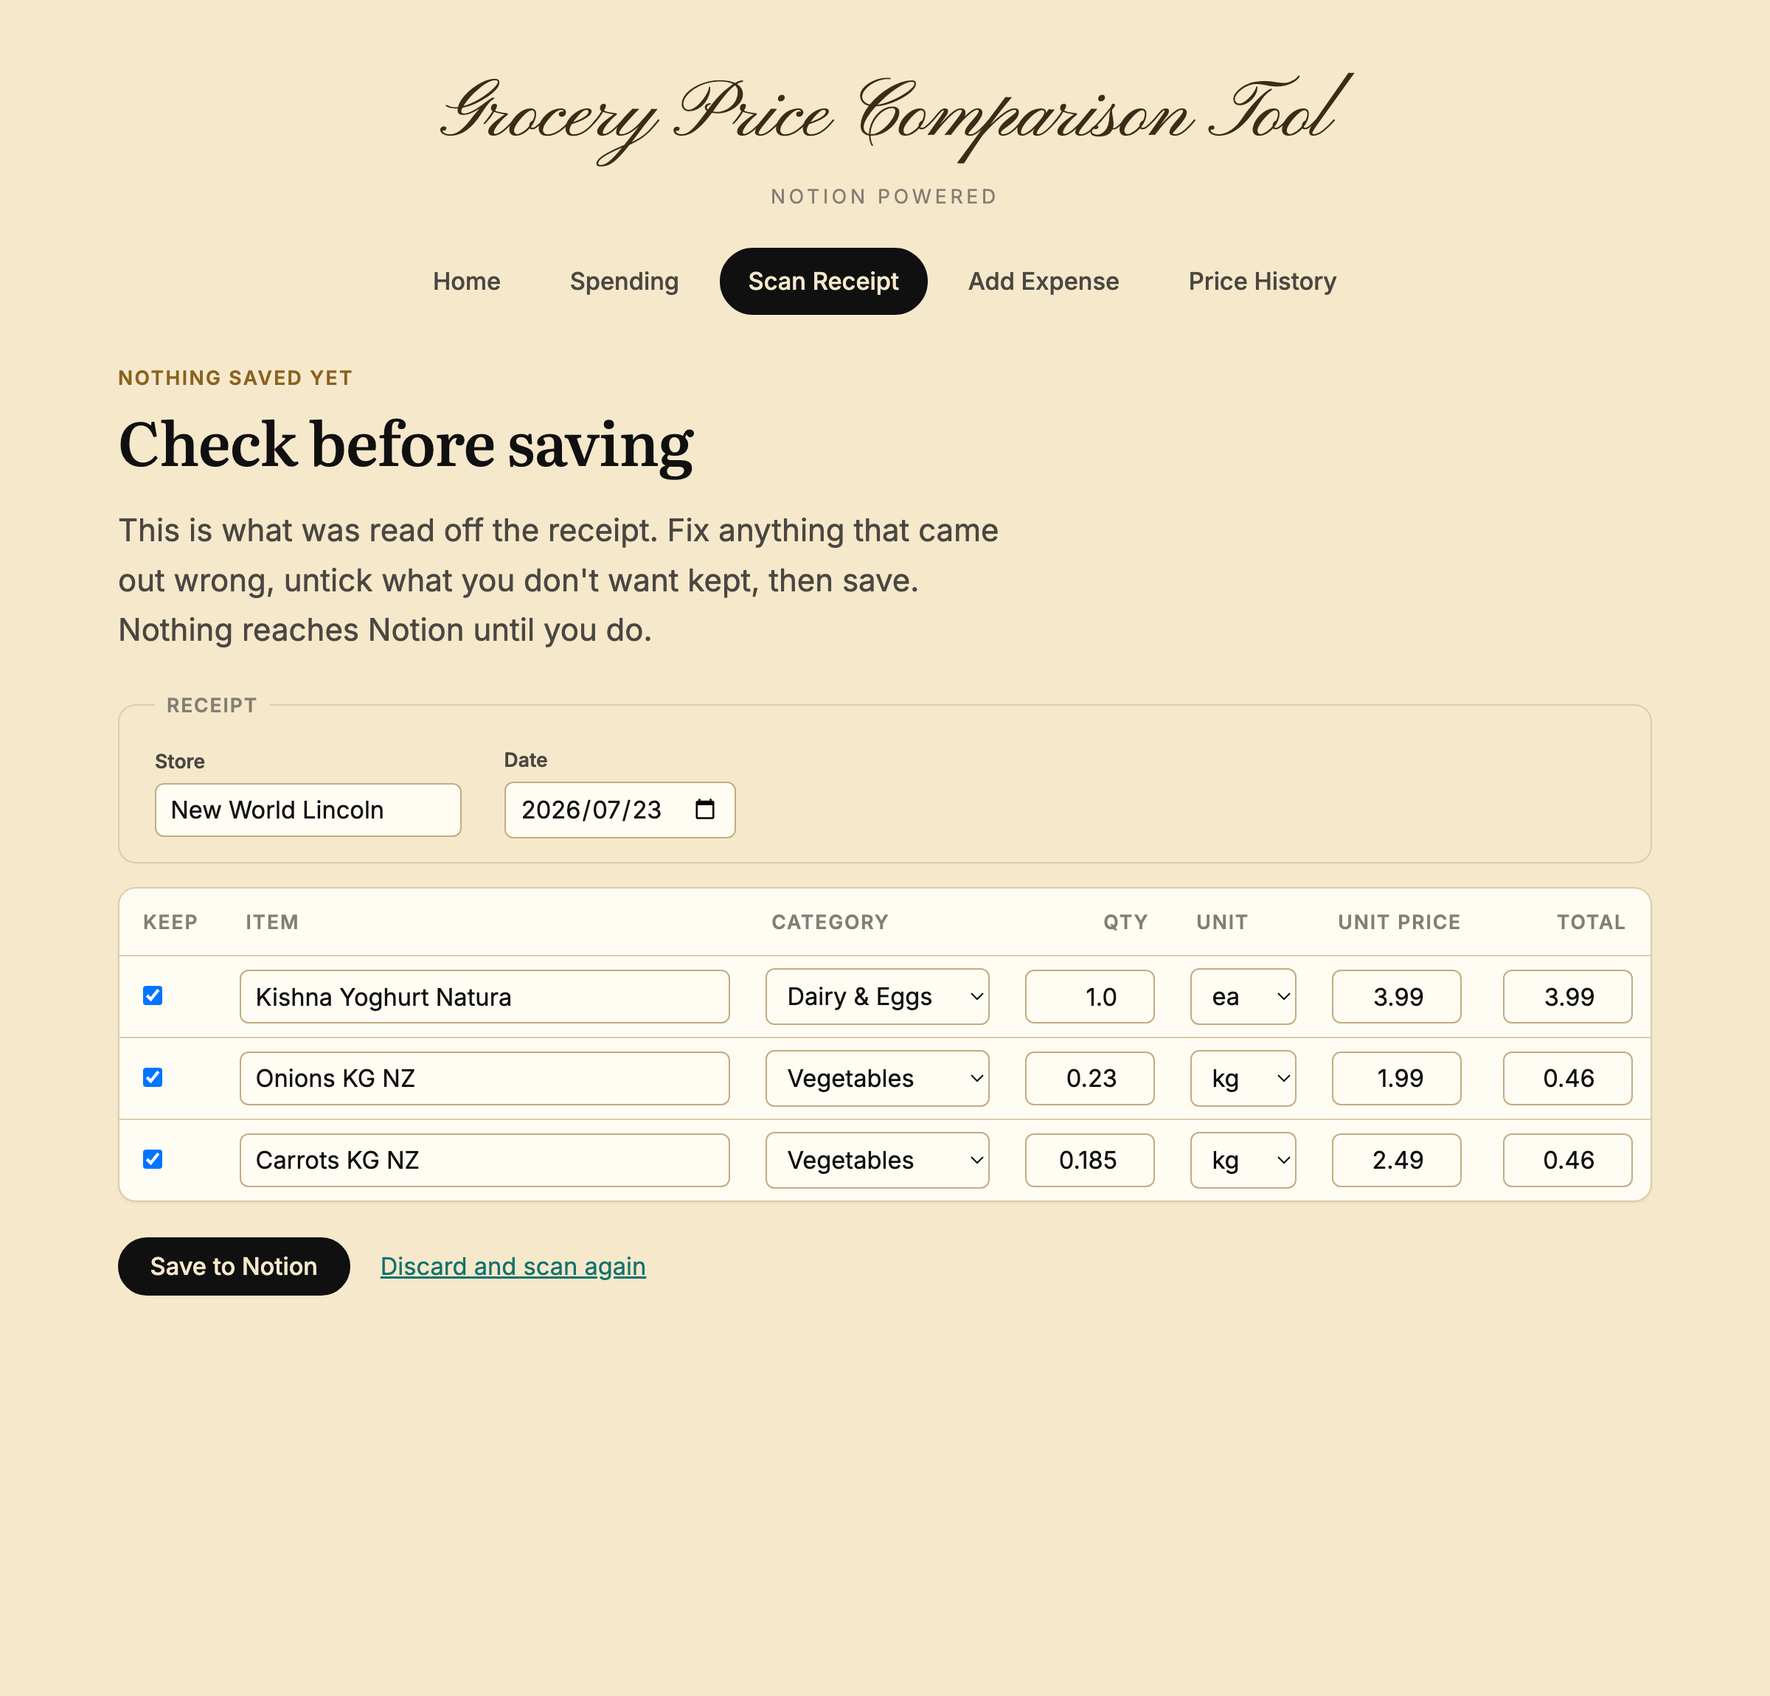
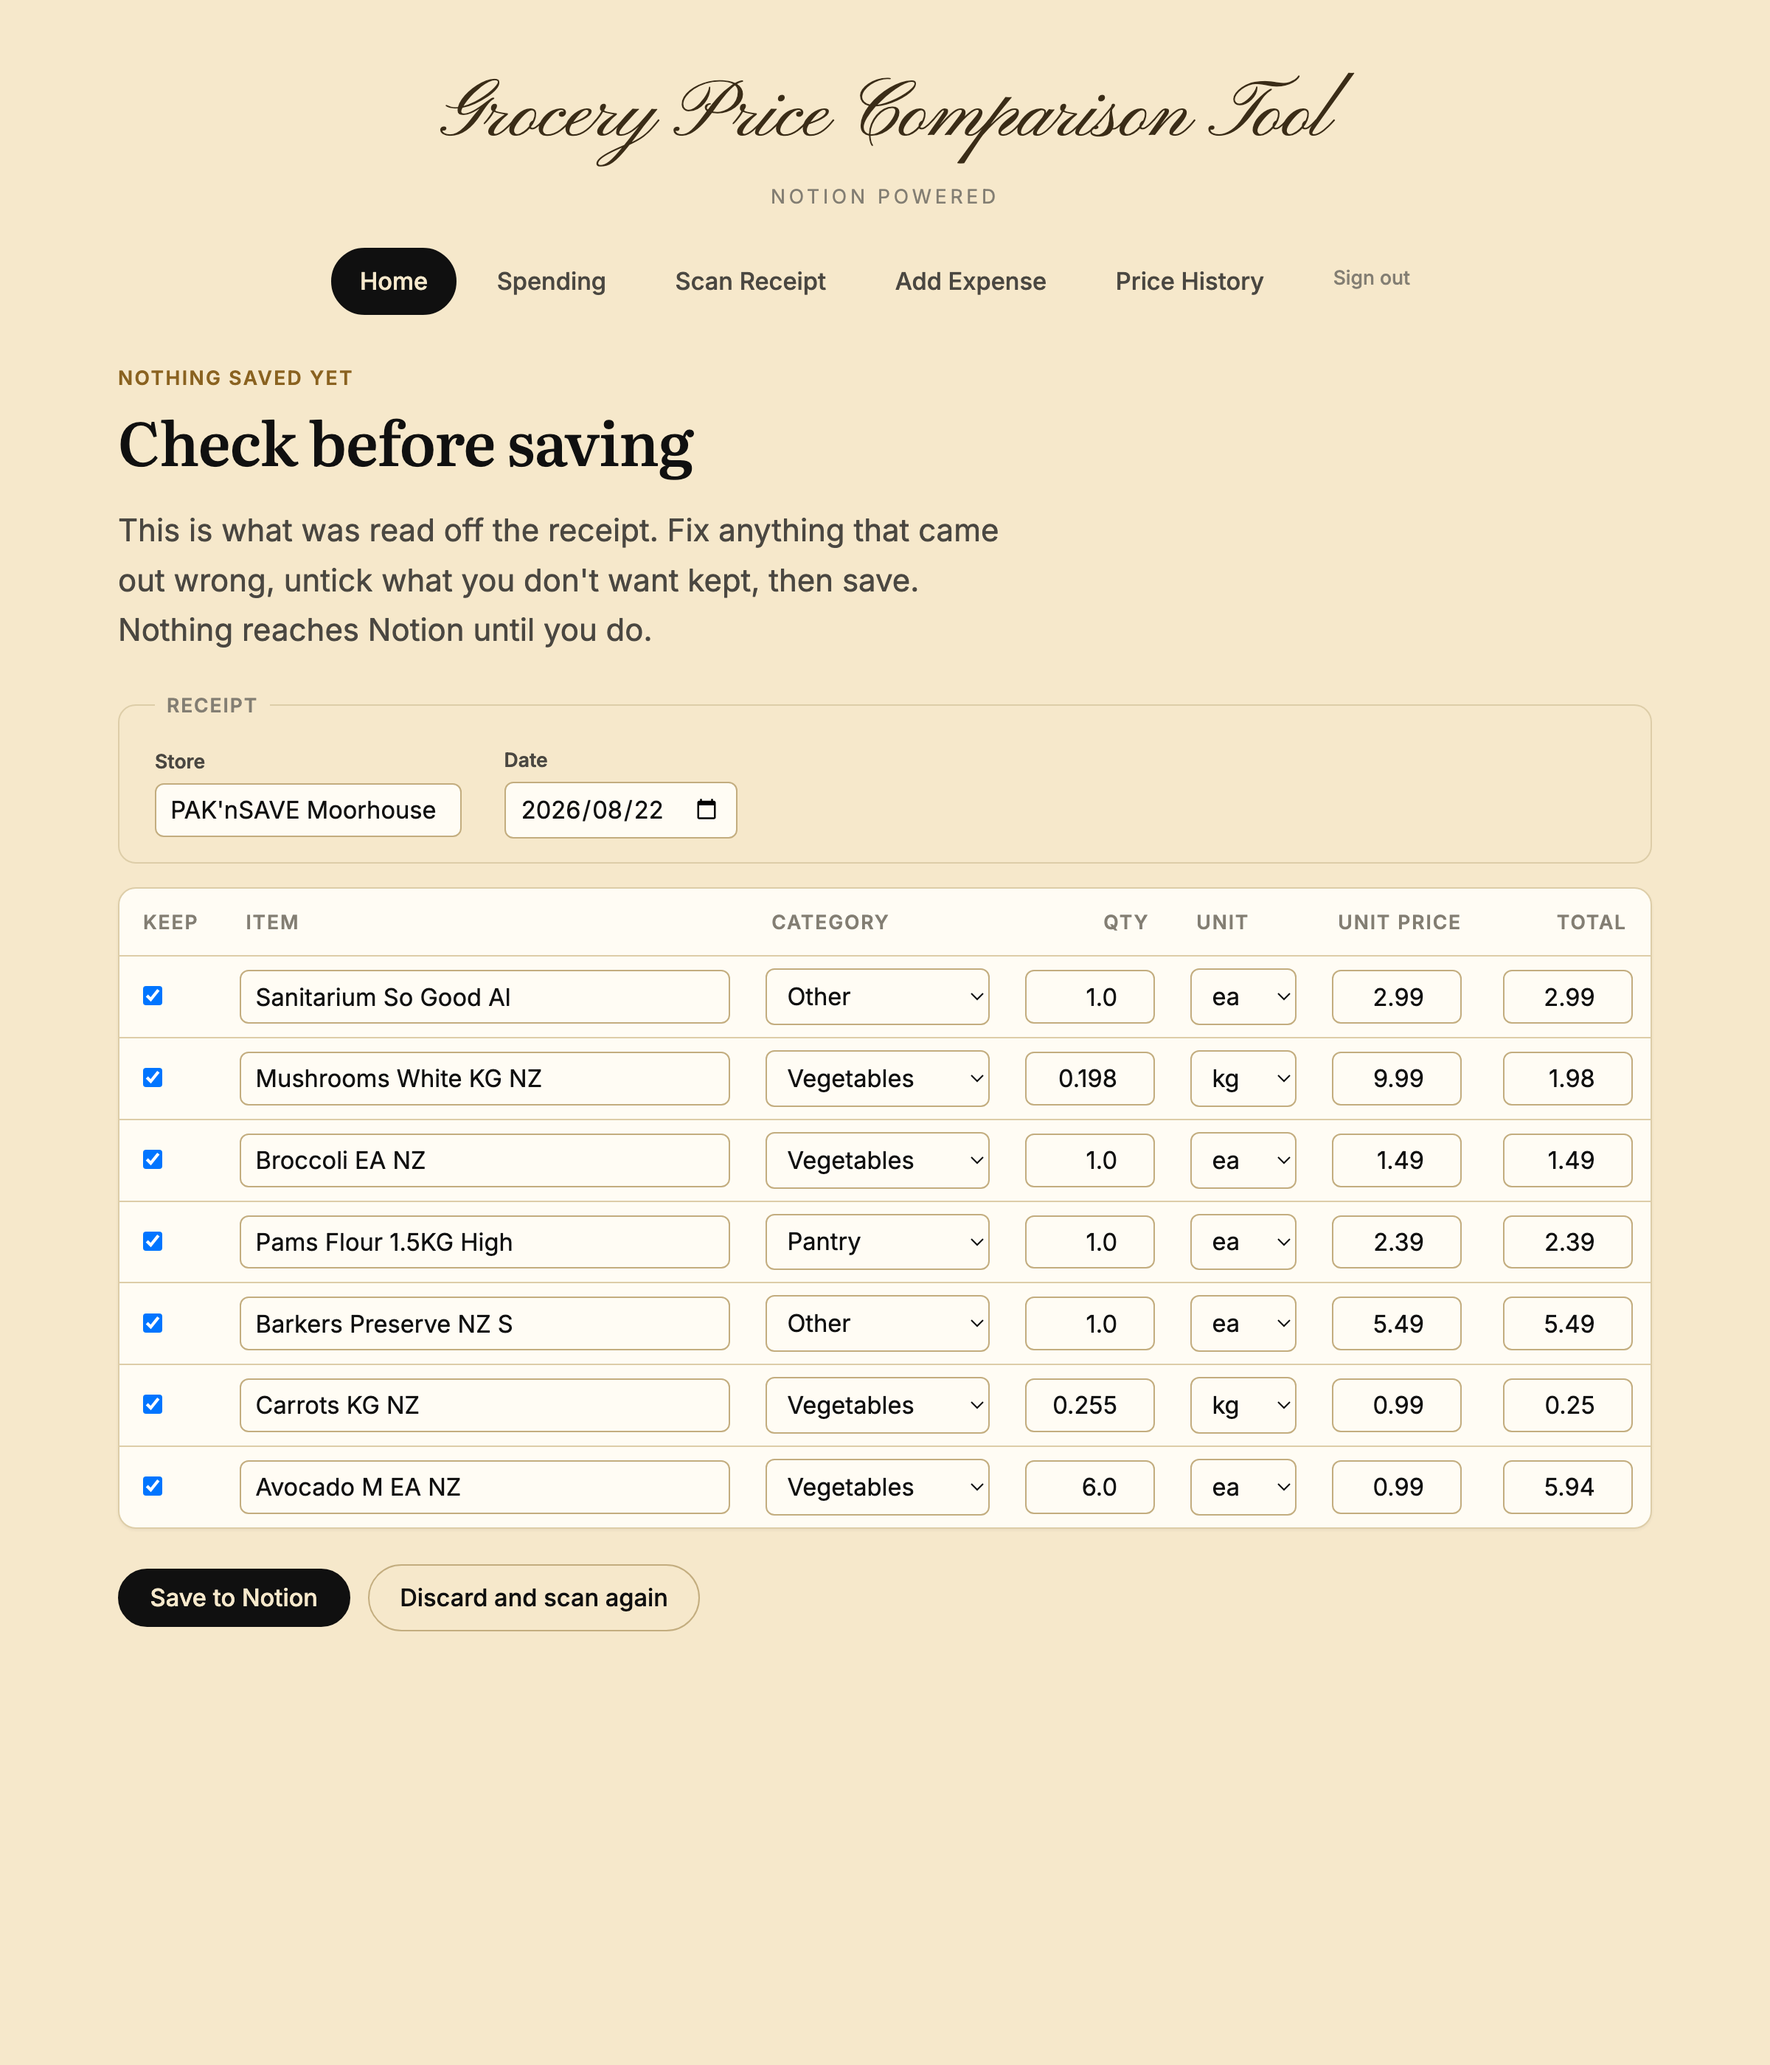
Read the Moorhouse receipt: lost "@", Cyrillic letters, branch-only header
Three separate faults on one receipt.

The "@" in "0.1980 @ $9.99 KG" came back as an "a", so the quantity did not
parse: the mushrooms were logged as one item at $1.98 with the debris left
in the name. A letter now stands in for "@" when it has a space on its left
and a price on its right. Both halves matter — without the space rule,
"PAMS SULTANAS 700G $0.49" reads the G as an "@" and 700 as a quantity,
which is exactly what the first attempt did.

OCR returns Cyrillic letters for Latin ones whose shapes are identical —
"ЕА" for the "EA" after a price, "С" for New World's tax code — and every
pattern here is ASCII, so a unit or a whole line quietly went missing.
They are folded back to Latin as the text leaves the engine, once, rather
than each pattern learning about it.

Pak'nSave prints two kinds of header: some branches print "PAK'nSAVE
Hornby" in plain text under the logo, Moorhouse and Riccarton print only
"Moorhouse". Taking the longest line then gives a branch with no chain on
it, filing two branches of one shop under unrelated names. The mangled
logo is now read as the chain and put back when the branch line lacks it.

Also: "Discard and scan again" was a bare link beside a solid button, so
the two choices did not read as the same kind of thing. It uses the
secondary button style the camera controls already had.

Changed region(s): [[0.0625, 0.0926, 0.9375, 0.8026], [0.25, 0.0309, 0.7812, 0.1852], [0.625, 0.1235, 0.75, 0.1852]]

diff --git a/groceryapp/static/css/style.css b/groceryapp/static/css/style.css
@@ -368,14 +368,27 @@ button,
 
 button:hover, .button:hover { background: #2c2c2c; color: var(--paper); }
 
-button.secondary {
+/* Written for both, because the pair "do it / don't" is sometimes a button
+   and a link — a submit next to an <a> — and they should still look like two
+   options of the same kind. */
+button.secondary,
+.button.secondary {
   background: transparent;
   color: var(--ink);
   border-color: var(--line-strong);
 }
 
-button.secondary:hover { background: var(--surface-2); color: var(--ink); }
+button.secondary:hover,
+.button.secondary:hover { background: var(--surface-2); color: var(--ink); }
 button.danger { background: var(--danger); border-color: var(--danger); }
+
+.form-actions {
+  display: flex;
+  flex-wrap: wrap;
+  align-items: center;
+  gap: var(--space-3);
+  margin-top: var(--space-5);
+}
 
 input, select {
   font-family: inherit;

diff --git a/groceryapp/templates/review.html b/groceryapp/templates/review.html
@@ -69,9 +69,9 @@
       </table>
     </div>
 
-    <p style="margin-top: 1.5rem;">
+    <p class="form-actions">
       <button type="submit">Save to Notion</button>
-      <a href="{{ url_for('upload') }}" style="margin-left: 1rem;">Discard and scan again</a>
+      <a class="button secondary" href="{{ url_for('upload') }}">Discard and scan again</a>
     </p>
   </form>
 {% endblock %}

diff --git a/groceryapp/templates/login.html b/groceryapp/templates/login.html
@@ -4,7 +4,7 @@
   <p class="eyebrow">Private</p>
   <h1>Sign in</h1>
   <p class="lede">
-    This is one person's shopping record, so it asks for a password
+    This is Vera's shopping record, so it asks for a password
     before it shows anything.
   </p>
 

diff --git a/groceryapp/ocr.py b/groceryapp/ocr.py
@@ -125,10 +125,19 @@ _TRAILING_PRICE_RE = re.compile(rf"\$?\s*(\d+\s*[.,]\s*\d{{2}}){_MARKER}$")
 # that "l" as a "1" about as often as not, so both spellings are allowed.
 # Longest alternatives first, or "l" would match the start of "ltr".
 _UNIT = r"(kgs?|litres?|[l1]trs?|ea(?:ch)?|kg|g|l)"
+
+# The "@" is the smallest mark on the line and OCR loses it constantly — it
+# comes back as a letter ("0.1980 a $9.99", "1 G $6.99"), or vanishes.
+#
+# A letter stands in for it only when it has a space on its left and a price
+# on its right, which is the one position where nothing but an "@" belongs.
+# Both halves are load-bearing: without the space, "PAMS SULTANAS 700G $0.49"
+# reads the "G" as the "@" and the pack size as a quantity of 700.
+_AT = r"(?:@|(?<=\s)[A-Za-z](?=\s*\$))"
 # The space after "\$" matters: Google Vision returns words separately, so a
 # price arrives as "$ 7.34" rather than "$7.34".
 _QTY_RE = re.compile(
-    rf"({_NUMBER})\s*{_UNIT}?\s*@\s*\$?\s*({_NUMBER})\s*/?\s*{_UNIT}?",
+    rf"({_NUMBER})\s*{_UNIT}?\s*{_AT}\s*\$?\s*({_NUMBER})\s*/?\s*{_UNIT}?",
     re.IGNORECASE,
 )
 
@@ -160,8 +169,42 @@ _KEEP_UPPER = {
     "PK", "PKT", "UHT", "BBQ", "XL", "PB", "NO",
 }
 
+# Cyrillic letters whose shapes are identical to Latin ones, mapped back.
+# Only the unambiguous pairs are here — a letter that merely looks similar
+# would do more harm than good.
+_HOMOGLYPHS = str.maketrans({
+    "А": "A", "В": "B", "Е": "E", "К": "K", "М": "M", "Н": "H", "О": "O",
+    "Р": "P", "С": "C", "Т": "T", "Х": "X", "У": "Y", "І": "I", "Ј": "J",
+    "а": "a", "е": "e", "о": "o", "р": "p", "с": "c", "х": "x", "у": "y",
+    "і": "i", "ј": "j",
+})
+
 # A run that is only a line marker, such as Pak'nSave's GST asterisk.
 _MARKER_ONLY_RE = re.compile(r"^[\s*\-–—=]+$")
+
+# A chain's logo is set in stylised type and OCR mangles it the same few ways
+# every time. Keyed on the letters alone, so spacing and punctuation damage
+# does not matter. Used to put the chain back when a receipt prints only the
+# branch name in plain text ("Moorhouse") under the logo.
+_CHAIN_LOGOS = {
+    "pakisave": "PAK'nSAVE",
+    "paknsave": "PAK'nSAVE",
+    "pakhsave": "PAK'nSAVE",
+    "paksave": "PAK'nSAVE",
+    "nwnewworld": "New World",
+    "newworld": "New World",
+    "countdown": "Countdown",
+    "woolworths": "Woolworths",
+    "freshchoice": "FreshChoice",
+    "foursquare": "Four Square",
+}
+
+
+def _squash(text):
+    """Letters and digits only, lower-cased — for comparing names whose
+    spacing and punctuation OCR may have mangled."""
+    return re.sub(r"[^a-z0-9]", "", text.lower())
+
 
 # The address under a shop's name, recognised by the word it ends on.
 _STREET_RE = re.compile(
@@ -390,6 +433,18 @@ def _read_blocks_google(image_path):
     return blocks or None
 
 
+def _normalise(blocks):
+    """Fold look-alike letters back to the Latin ones that were printed.
+
+    OCR returns a Cyrillic letter for a Latin one often enough to matter — the
+    "EA" after a price comes back as "ЕА", New World's tax code "C" as "С" —
+    because the glyphs are identical. Every pattern in this module is ASCII, so
+    left alone these quietly cost a unit or a whole line item. Fixing it once
+    here beats teaching each pattern about it.
+    """
+    return [(text.translate(_HOMOGLYPHS), *rest) for text, *rest in blocks]
+
+
 def _read_blocks(image_path):
     for reader, name in (
         (_read_blocks_vision, "vision"),
@@ -397,8 +452,8 @@ def _read_blocks(image_path):
     ):
         blocks = reader(image_path)
         if blocks:
-            return blocks, name
-    return _read_blocks_tesseract(image_path), "tesseract"
+            return _normalise(blocks), name
+    return _normalise(_read_blocks_tesseract(image_path)), "tesseract"
 
 
 # --------------------------------------------------------------------------
@@ -640,16 +695,34 @@ def _find_store_name(rows):
     # Only the first three rows: past that come opening hours and addresses,
     # whose leading words would otherwise out-length the real name.
     for candidate_rows in (rows[:3], rows[-5:]):
-        names = []
+        names, chain = [], None
         for row in candidate_rows:
             text, price = _row_parts(row)
             if price is not None:
                 continue
+            # The logo row is not a name — it is the chain, however mangled.
+            # Held aside so a short branch line is not out-lengthened by it.
+            logo = _CHAIN_LOGOS.get(_squash(text))
+            if logo:
+                chain = logo
+                continue
             name = as_name(text)
             if name:
                 names.append(name)
-        if names:
-            return max(names, key=len)
+
+        if not names:
+            # A logo and nothing else readable above it.
+            if chain:
+                return chain
+            continue
+
+        best = max(names, key=len)
+        # Some branches print "PAK'nSAVE Hornby" in plain text below the logo
+        # and some print only "Moorhouse". The second kind needs the chain put
+        # back, or two branches of one shop file under unrelated names.
+        if chain and _squash(chain) not in _squash(best):
+            return f"{chain} {best}"
+        return best
     return None
 
 
